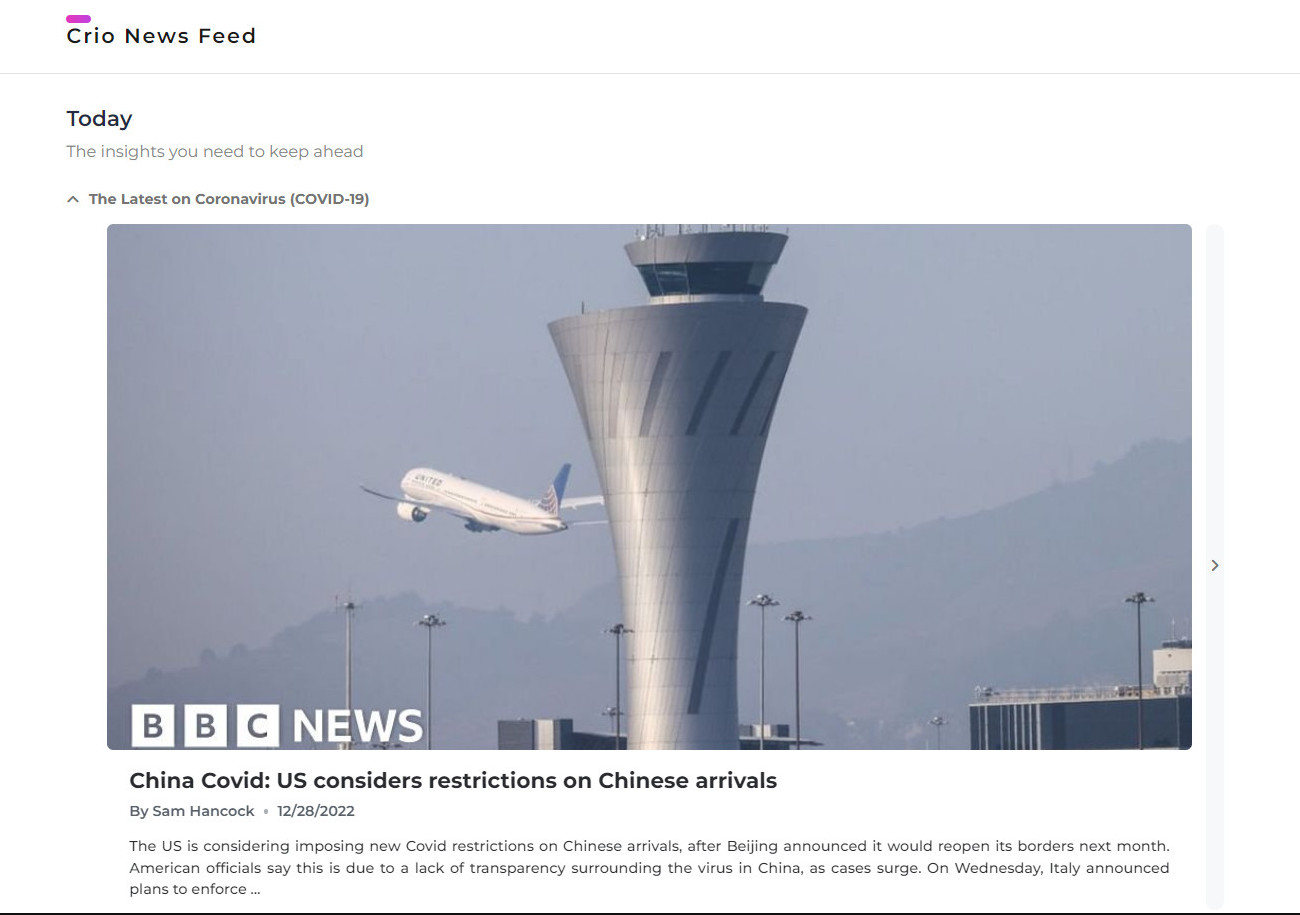
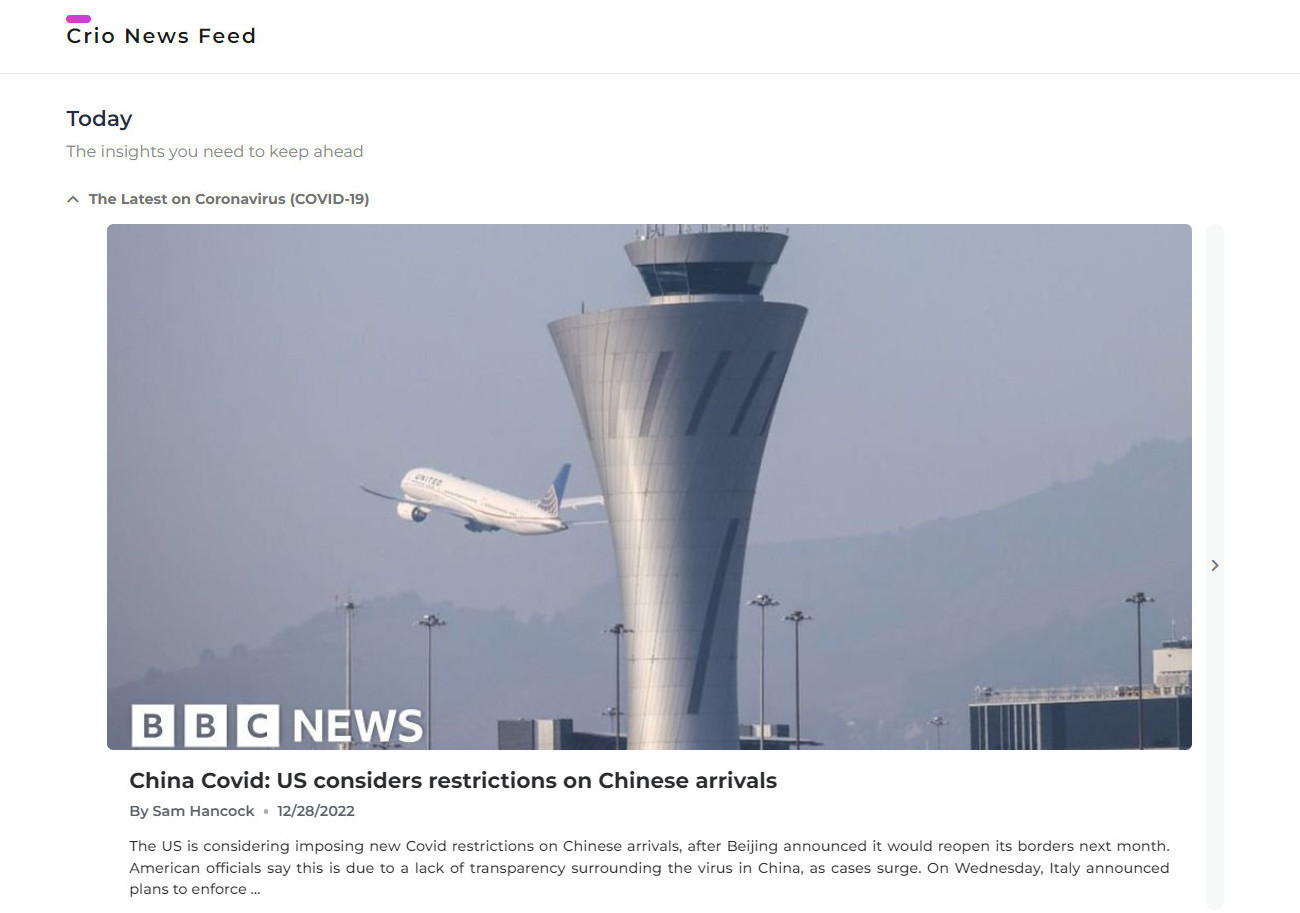
adjust portfolio image scale effect

diff --git a/index.css b/index.css
@@ -692,7 +692,7 @@ textarea {
   transition: transform 0.1s ease-out;
 }
 .card__figure img.scaled {
-  transform: scale(104%);
+  transform: scale(103%);
 }
 .card__figure--bio img {
   transition: filter 3s linear;

diff --git a/sass/components/_card.scss b/sass/components/_card.scss
@@ -128,7 +128,7 @@
       transition: transform 0.1s ease-out;
     }
     img.scaled {
-      transform: scale(104%);
+      transform: scale(103%);
     }
     &--bio {
       img {
